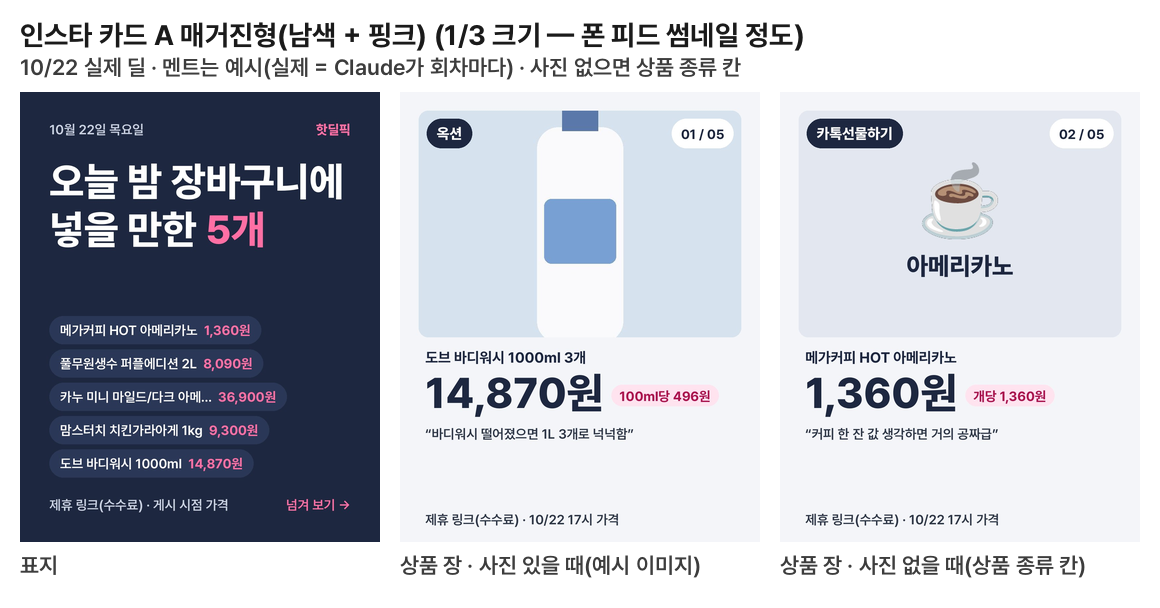
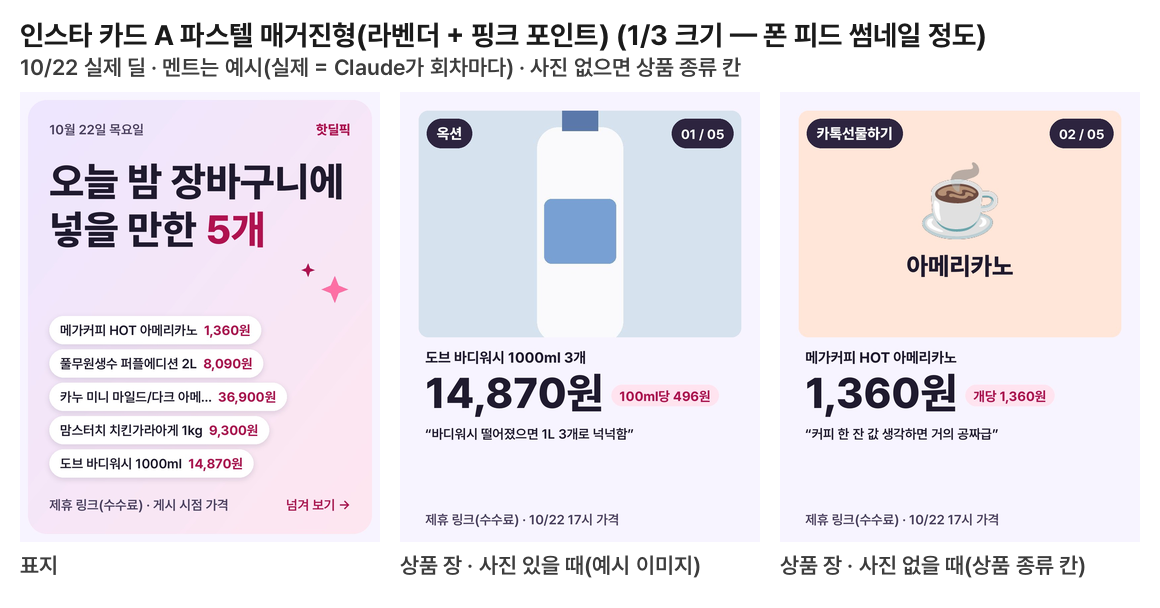
인스타 카드 A 파스텔 매거진(진우 'A도 파스텔 톤으로 감성 있게'): 남색 빼고 라벤더→핑크 대각선 표지·라벤더 안개 상품 장
- 표지: 라벤더 #ece6ff → 핑크 #ffe6ef 대각선(둥근 모서리 카드), 제목 #1f1a2e, 강조 숫자·핫딜픽·넘겨 보기·칩 가격 #b0124f, 날짜·제휴 줄 #4a4060, 흰 알약 칩 + 옅은 그림자, ✦ 반짝이 2개(글자 없는 자리만)
- 상품 장: #f7f3ff, 종류 칸 핑크·피치·민트·라벤더 번갈아, 큰 가격·멘트 #1f1a2e, 하단 줄 #4a4060, 몰 배지·번호 알약 #2d2440 + 흰 글자
- 레이아웃·글자 크기·가독성 규칙·B·텔레그램·Threads·사이트 그대로 · 대비 26조합 4.5:1↑(최저 5.69) · 시안 preview_A·_small

Claude-Session: https://claude.ai/code/session_0166LncLSude1PVe4eEqmcYn

diff --git a/test_hotdeal.py b/test_hotdeal.py
@@ -4909,7 +4909,9 @@ for f34 in os.listdir("t34"):  # 1/3 크기(폰 피드 썸네일 정도)
     if f34[0] in "AB" and f34.endswith(".jpg"):
         I34.open(f"t34/{f34}").resize((360, 450), I34.LANCZOS).save(f"t34/{f34[:-4]}_small.png")
 assert len([f for f in os.listdir("t34") if f.endswith("_small.png")]) == 12
-px34 = I34.open("t34/A3.jpg").convert("RGB").getpixel((20, 20)); assert max(abs(a - b) for a, b in zip(px34, C34.NAVY)) < 10, px34  # A 표지 = 남색
+im34 = I34.open("t34/A3.jpg").convert("RGB")  # A 표지 = 파스텔 매거진(10/22 진우): 둥근 모서리 밖 라벤더 안개 · 왼쪽 위 라벤더 -> 오른쪽 아래 핑크
+assert [max(abs(a - b) for a, b in zip(im34.getpixel(xy), c)) < 10 for xy, c in (((6, 6), C34.LMIST), ((60, 60), C34.LAV), ((1020, 1290), C34.BLUSH))] == [True] * 3
+assert all(C34.contrast(c, tuple(a + (b - a) * t / 10 for a, b in zip(C34.LAV, C34.BLUSH))) >= 4.5 for c in (C34.INKA, C34.BERRY, C34.SUBA) for t in range(11))  # 그라데이션 중간색 위에서도
 px34 = I34.open("t34/B3.jpg").convert("RGB").getpixel((20, 20)); assert max(abs(a - b) for a, b in zip(px34, C34.PAPER)) < 10, px34  # B 표지 = 크림
 px34 = I34.open("t34/As2.jpg").convert("RGB").getpixel((540, 400)); assert max(abs(a - b) for a, b in zip(px34, (200, 210, 230))) < 12, px34  # A 상품 장 = 위 사진
 shutil.rmtree("t34")
@@ -4936,7 +4938,7 @@ H.http, H.POSTS, H.IG_AUTO, H.IG_HUMAN, H.IG_LIVE, H.prune_slides = http34, "pos
 H.E.update(IG_TOKEN="pt", IG_USER_ID="178")
 s34 = {}; time.time = lambda: TK("2026-11-07 21:05"); H.ig_cards(s34)
 assert sorted(os.listdir("docs/cards/igv/2026-11-07")) == ["01.jpg", "02.jpg", "03.jpg", "04.jpg", "cover.jpg"] and not c34  # 이번 실행 = 한 벌만(인스타 X)
-cv34 = I34.open("docs/cards/igv/2026-11-07/cover.jpg").convert("RGB").getpixel((20, 20)); assert H.ig_design("2026-11-07") == "A" and max(abs(a - b) for a, b in zip(cv34, C34.NAVY)) < 10  # 11/7 = 10/22에서 16일 = A
+cv34 = I34.open("docs/cards/igv/2026-11-07/cover.jpg").convert("RGB").getpixel((60, 60)); assert H.ig_design("2026-11-07") == "A" and max(abs(a - b) for a, b in zip(cv34, C34.LAV)) < 10  # 11/7 = 10/22에서 16일 = A
 time.time = lambda: TK("2026-11-07 21:12"); H.ig_cards(s34); assert not c34  # 21:00 + 15~20분 전
 time.time = lambda: TK("2026-11-07 21:25"); H.ig_cards(s34)
 imgs34 = [b["image_url"] for u, b, m in c34 if m == "POST" and b.get("is_carousel_item")]
